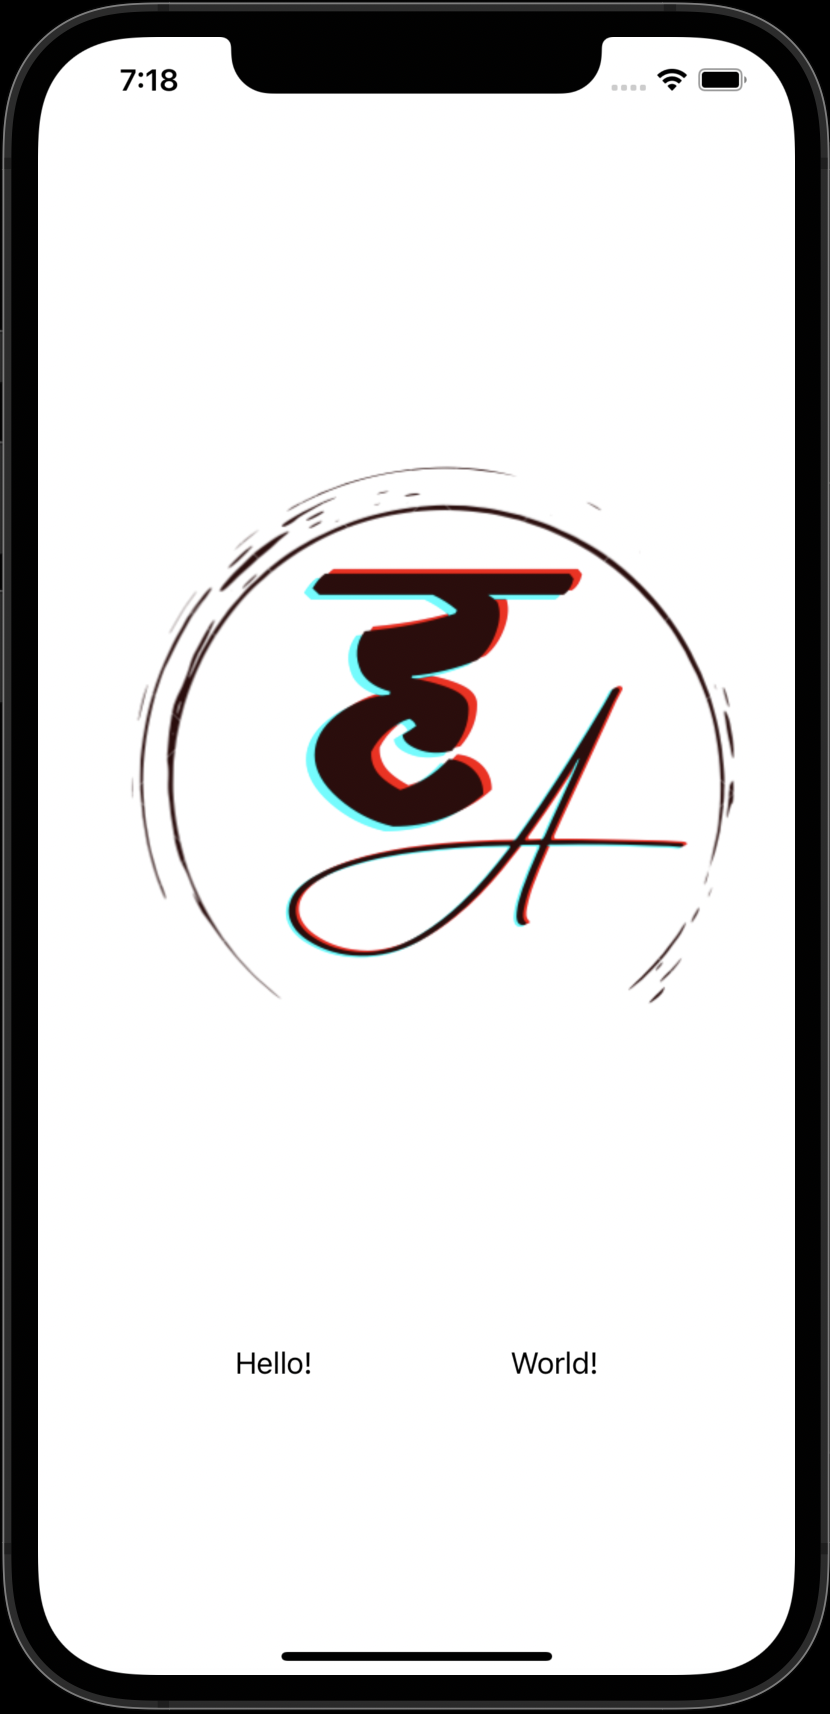
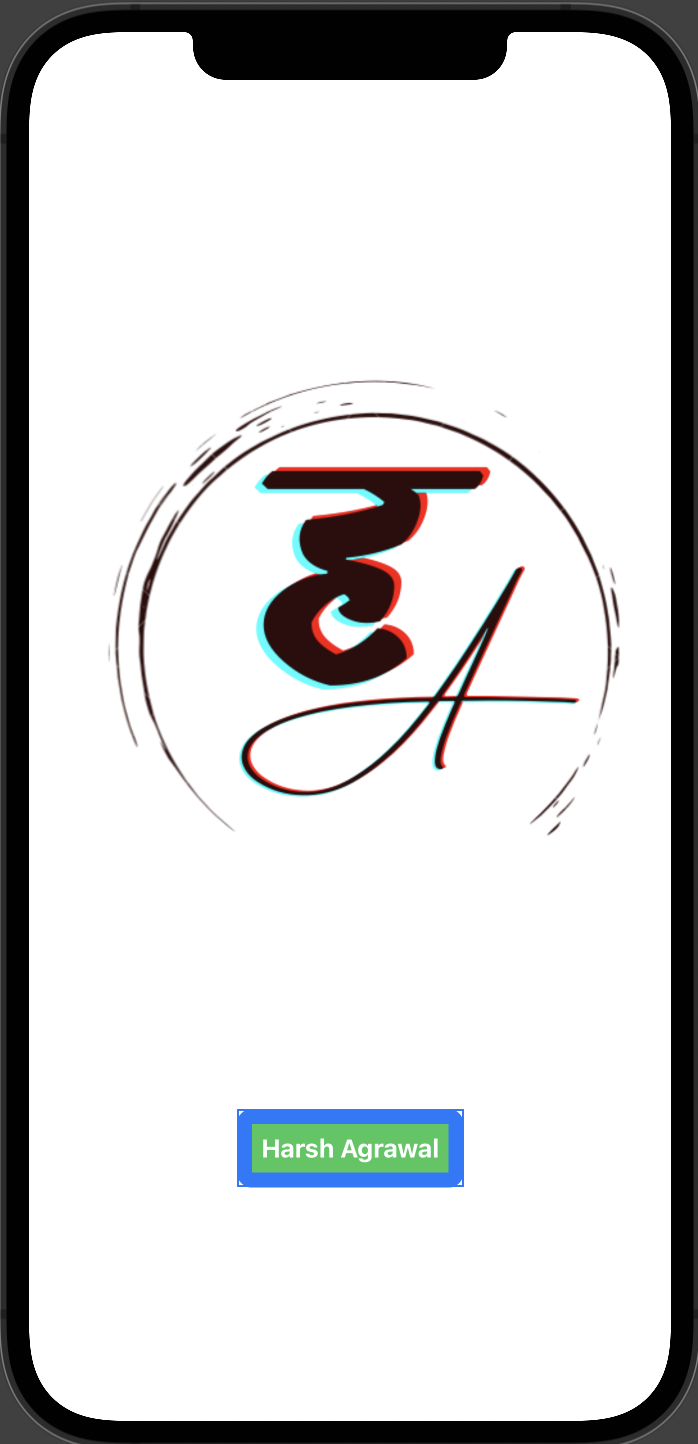
text view changed

diff --git a/firstiOSAPP/ContentView.swift b/firstiOSAPP/ContentView.swift
@@ -15,15 +15,13 @@ struct ContentView: View {
             Image("agrawalharsh90")
                 .resizable().aspectRatio(contentMode:.fit)
             Spacer()
-
-            HStack(content: {
-                Spacer()
-                Text("Hello!")
-                Spacer()
-                Text("World!")
-                Spacer()
-
-            })
+            Text("Harsh Agrawal")
+                .fontWeight(.bold)
+                .foregroundColor(Color.white)
+                .padding(/*@START_MENU_TOKEN@*/.all/*@END_MENU_TOKEN@*/)
+                .background(Color.green)
+                .border(/*@START_MENU_TOKEN@*/Color.blue/*@END_MENU_TOKEN@*/, width: 10)
+                .cornerRadius(/*@START_MENU_TOKEN@*/10.0/*@END_MENU_TOKEN@*/)
             Spacer()
 
         })
